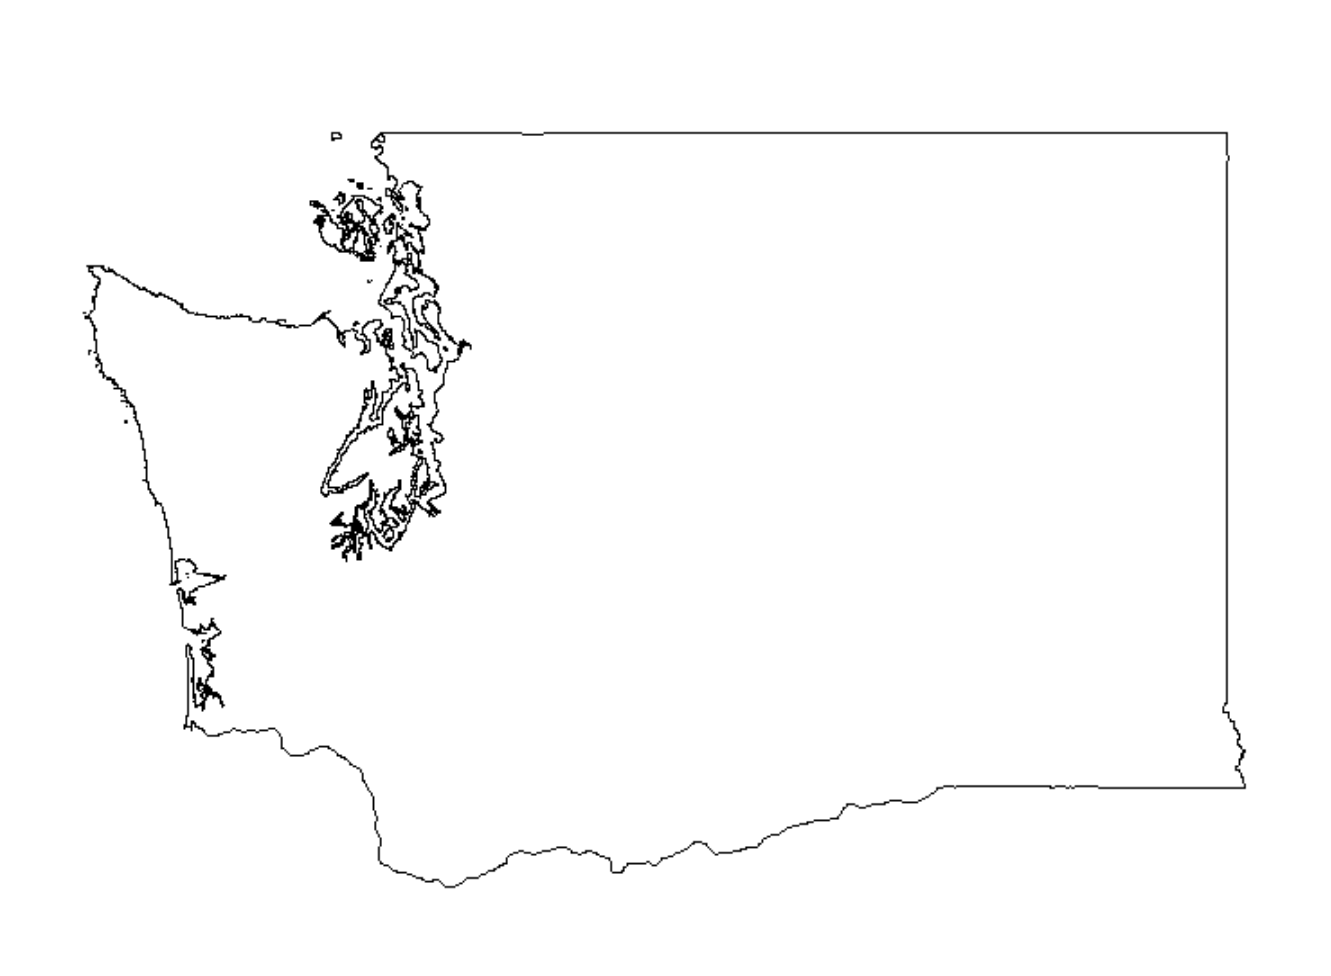
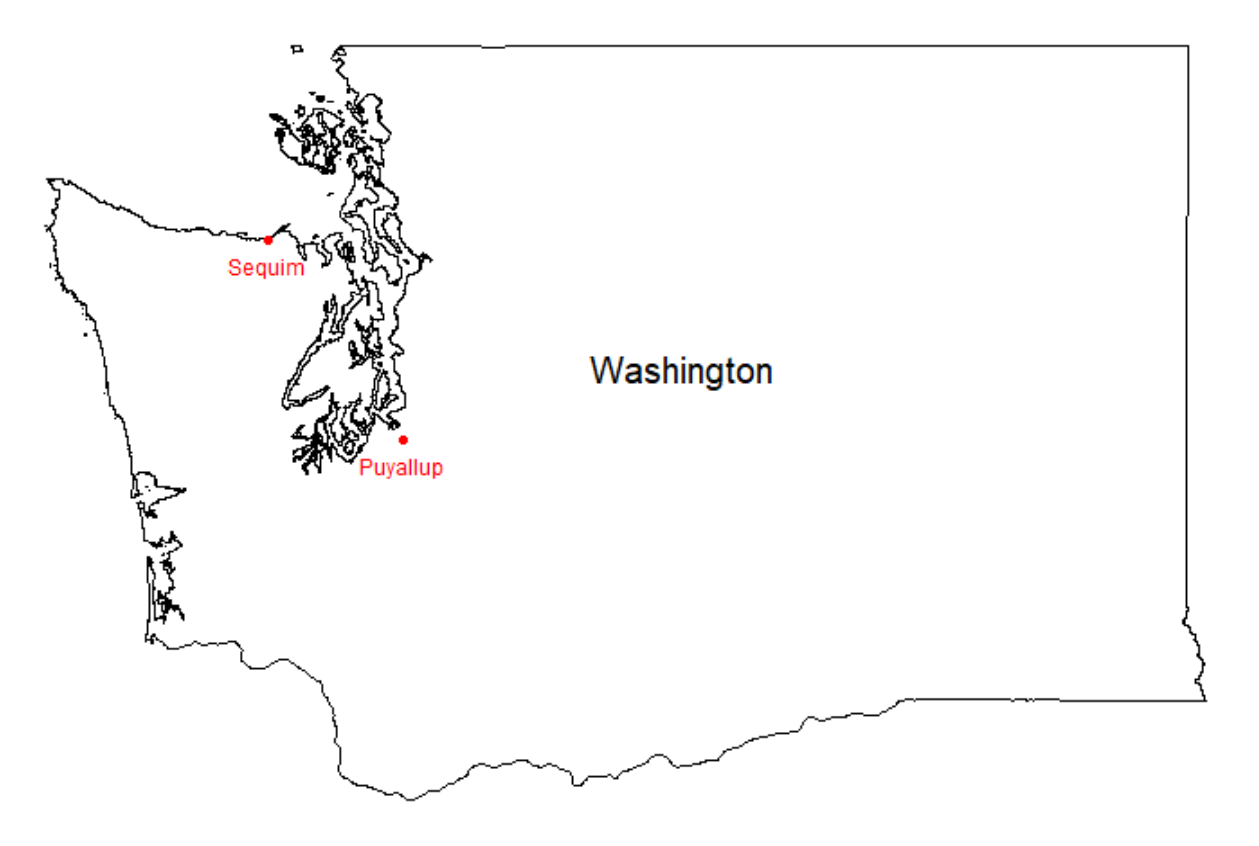
Updated plot

diff --git a/_posts/2021-12-5-Simple-Map-Plots.md b/_posts/2021-12-5-Simple-Map-Plots.md
@@ -6,11 +6,27 @@ tags:
   - R_Hacks
 ---
 
-Sometime ago, a former coworker told me that they thought using R for GIS was one of the dumbest things they had ever heard of.  I have to imagine they didn't really have any firsthand knowledge of the topic, as my experience tells me R is VERY capable of being used to do GIS tasks.  Plenty of quality GIS work has been done in R with long-standing libraries like [raster](https://cran.r-project.org/web/packages/raster/index.html) and [sp](https://cran.r-project.org/web/packages/sp/index.html).  However, the release of the [sf package](https://cran.r-project.org/web/packages/sf/index.html) a few years ago made R even more powerful and easier to use for GIS.  Using the same underlying libraries as PostGIS; GDAL, GEOS and PROJ - sf now shares a very similar command syntax and data model with a tool that is known as one of the finest GIS applications ever built.  One thing R does better though is to actually provide a visualization interface for simple maps using the base _plot_ command.
-
-Most articles on using R for map visualization focus on using additinal libraries such as [ggplot2](https://r-spatial.org/r/2018/10/25/ggplot2-sf.html) and others to enable sophisticated plotting options.  However, many times this isn't needed.  This post captures a few simple plotting techniques that can be used for rapid visualizations to validate assumptions, or find problems.
+Most articles written about using R for map visualization focus on using libraries such as [ggplot2](https://r-spatial.org/r/2018/10/25/ggplot2-sf.html) and others to enable sophisticated plotting options.  However, many times this isn't needed as _sf_ (and most other spatial packages) supports basic plotting operations natively.  This post captures a some simple techniques that can be used for rapid visualizations to validate assumptions and find problems.
 
 ## Plot 1:
 
 ![simple_poly]({{ site.baseurl }}/images/wa_state.PNG)
+
+### Code
+
+```
+library(sf)
+library(dplyr)
+
+wa_state <- st_read("C:/Users/RAndre1/Documents/Work_Docs/GIS_DATA/wa_state.shp")
+wa_cities <- st_read("C:/Users/RAndre1/Documents/Work_Docs/GIS_DATA/sample_wa_cities.shp")
+
+plot(wa_state$geometry)
+plot(wa_cities$geometry, add = TRUE, pch=20, col='red')
+text(st_coordinates(wa_cities), pos=1, wa_cities$Name, cex=0.75, col = 'red')
+
+st_centroid(wa_state) %>% 
+  st_coordinates() %>% 
+  text(pos=3, wa_state$Name, cex=1.25)
+```
 
